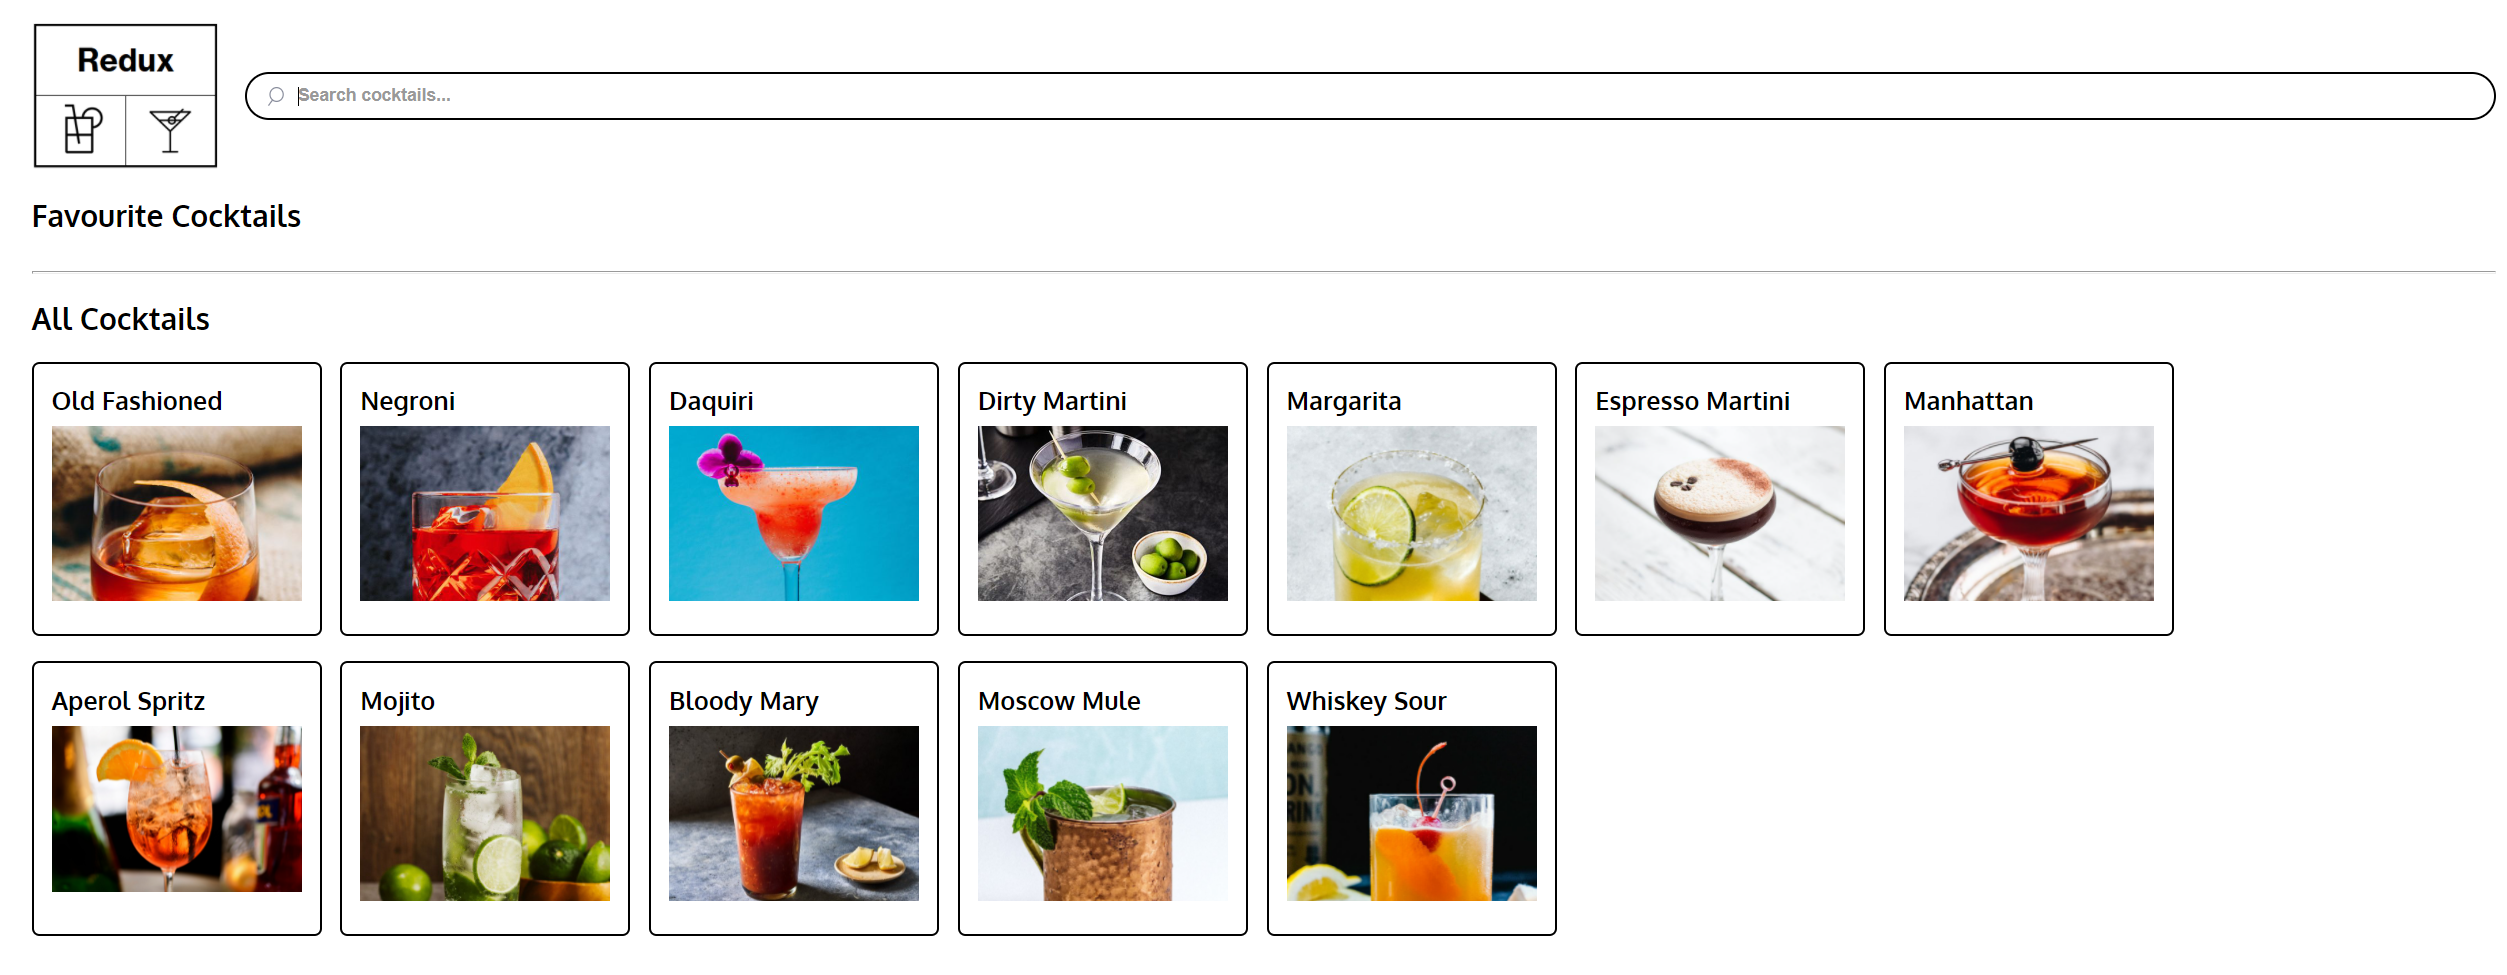
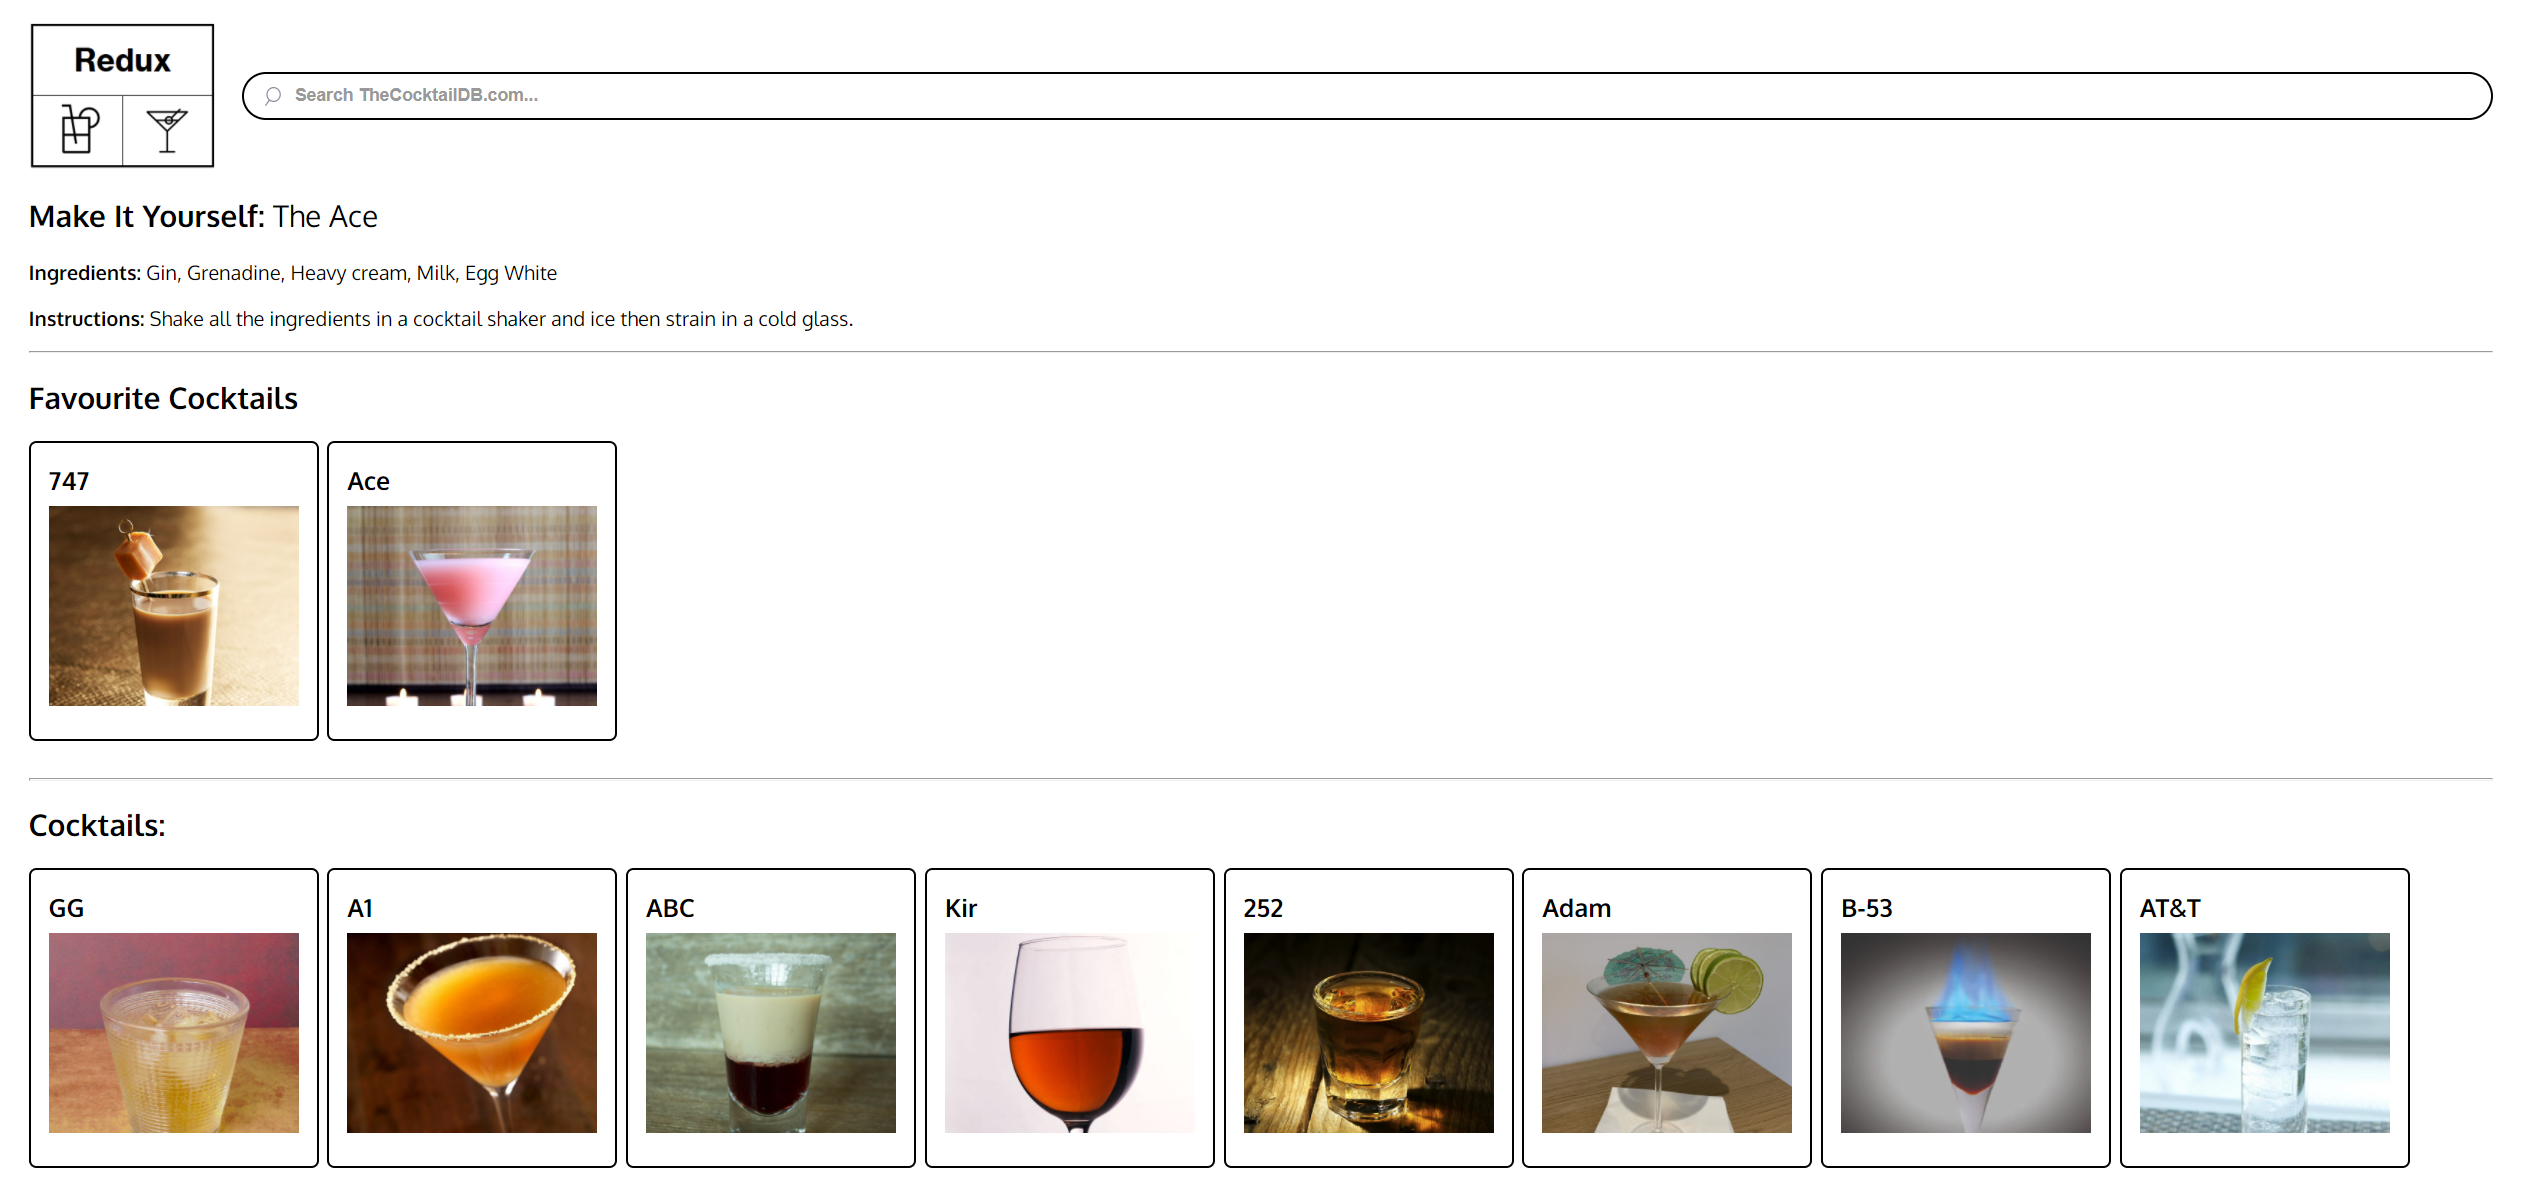
README update

diff --git a/public/index.css b/public/index.css
@@ -29,7 +29,7 @@ html, body, #root {
 #search-icon {
   opacity: 0.5;
   position: absolute;
-  top: 73px;
+  top: 72px;
   left: 218px;
 }
 

diff --git a/README.md b/README.md
@@ -21,31 +21,33 @@ Live version hosted on Netlify @ https://redux-cocktails.netlify.app/
 ## Libraries
 * React
 * Redux
+* redux-thunk
 
 ## Code Example
 Store/Root Reducer code
 ```javascript 
-import { createStore, combineReducers } from 'redux';
+import { createStore, combineReducers, applyMiddleware } from 'redux';
+import thunk from 'redux-thunk';
 import { allCocktailsReducer } from '../features/allCocktails/allCocktailsSlice.js';
 import { favouriteCocktailsReducer } from '../features/favouriteCocktails/favouriteCocktailsSlice.js';
 import { searchTermReducer } from '../features/searchTerm/searchTermSlice.js';
+import { ingredientsReducer } from '../features/ingredients/ingredientsSlice.js';
 
 export const store = createStore(combineReducers({
   allCocktails: allCocktailsReducer,
   favouriteCocktails: favouriteCocktailsReducer,
-  searchTerm: searchTermReducer
-}));
+  searchTerm: searchTermReducer,
+  ingredients: ingredientsReducer
+}), applyMiddleware(thunk));
 ```
 
 ## Features
-List of features ready and TODOs for future development
+List of completed features
 * Add cocktail to favourites
 * Remove cocktail from favourites
 * Search cocktails using a query string
-
-To-do list:
 * Dynamic cocktail data via API (https://www.thecocktaildb.com/)
-* Drill down into recipes, etc.
+* Display ingredients & instructions
 
 ## Status
-Project is: _in progress_
+Project is: _Completed_
